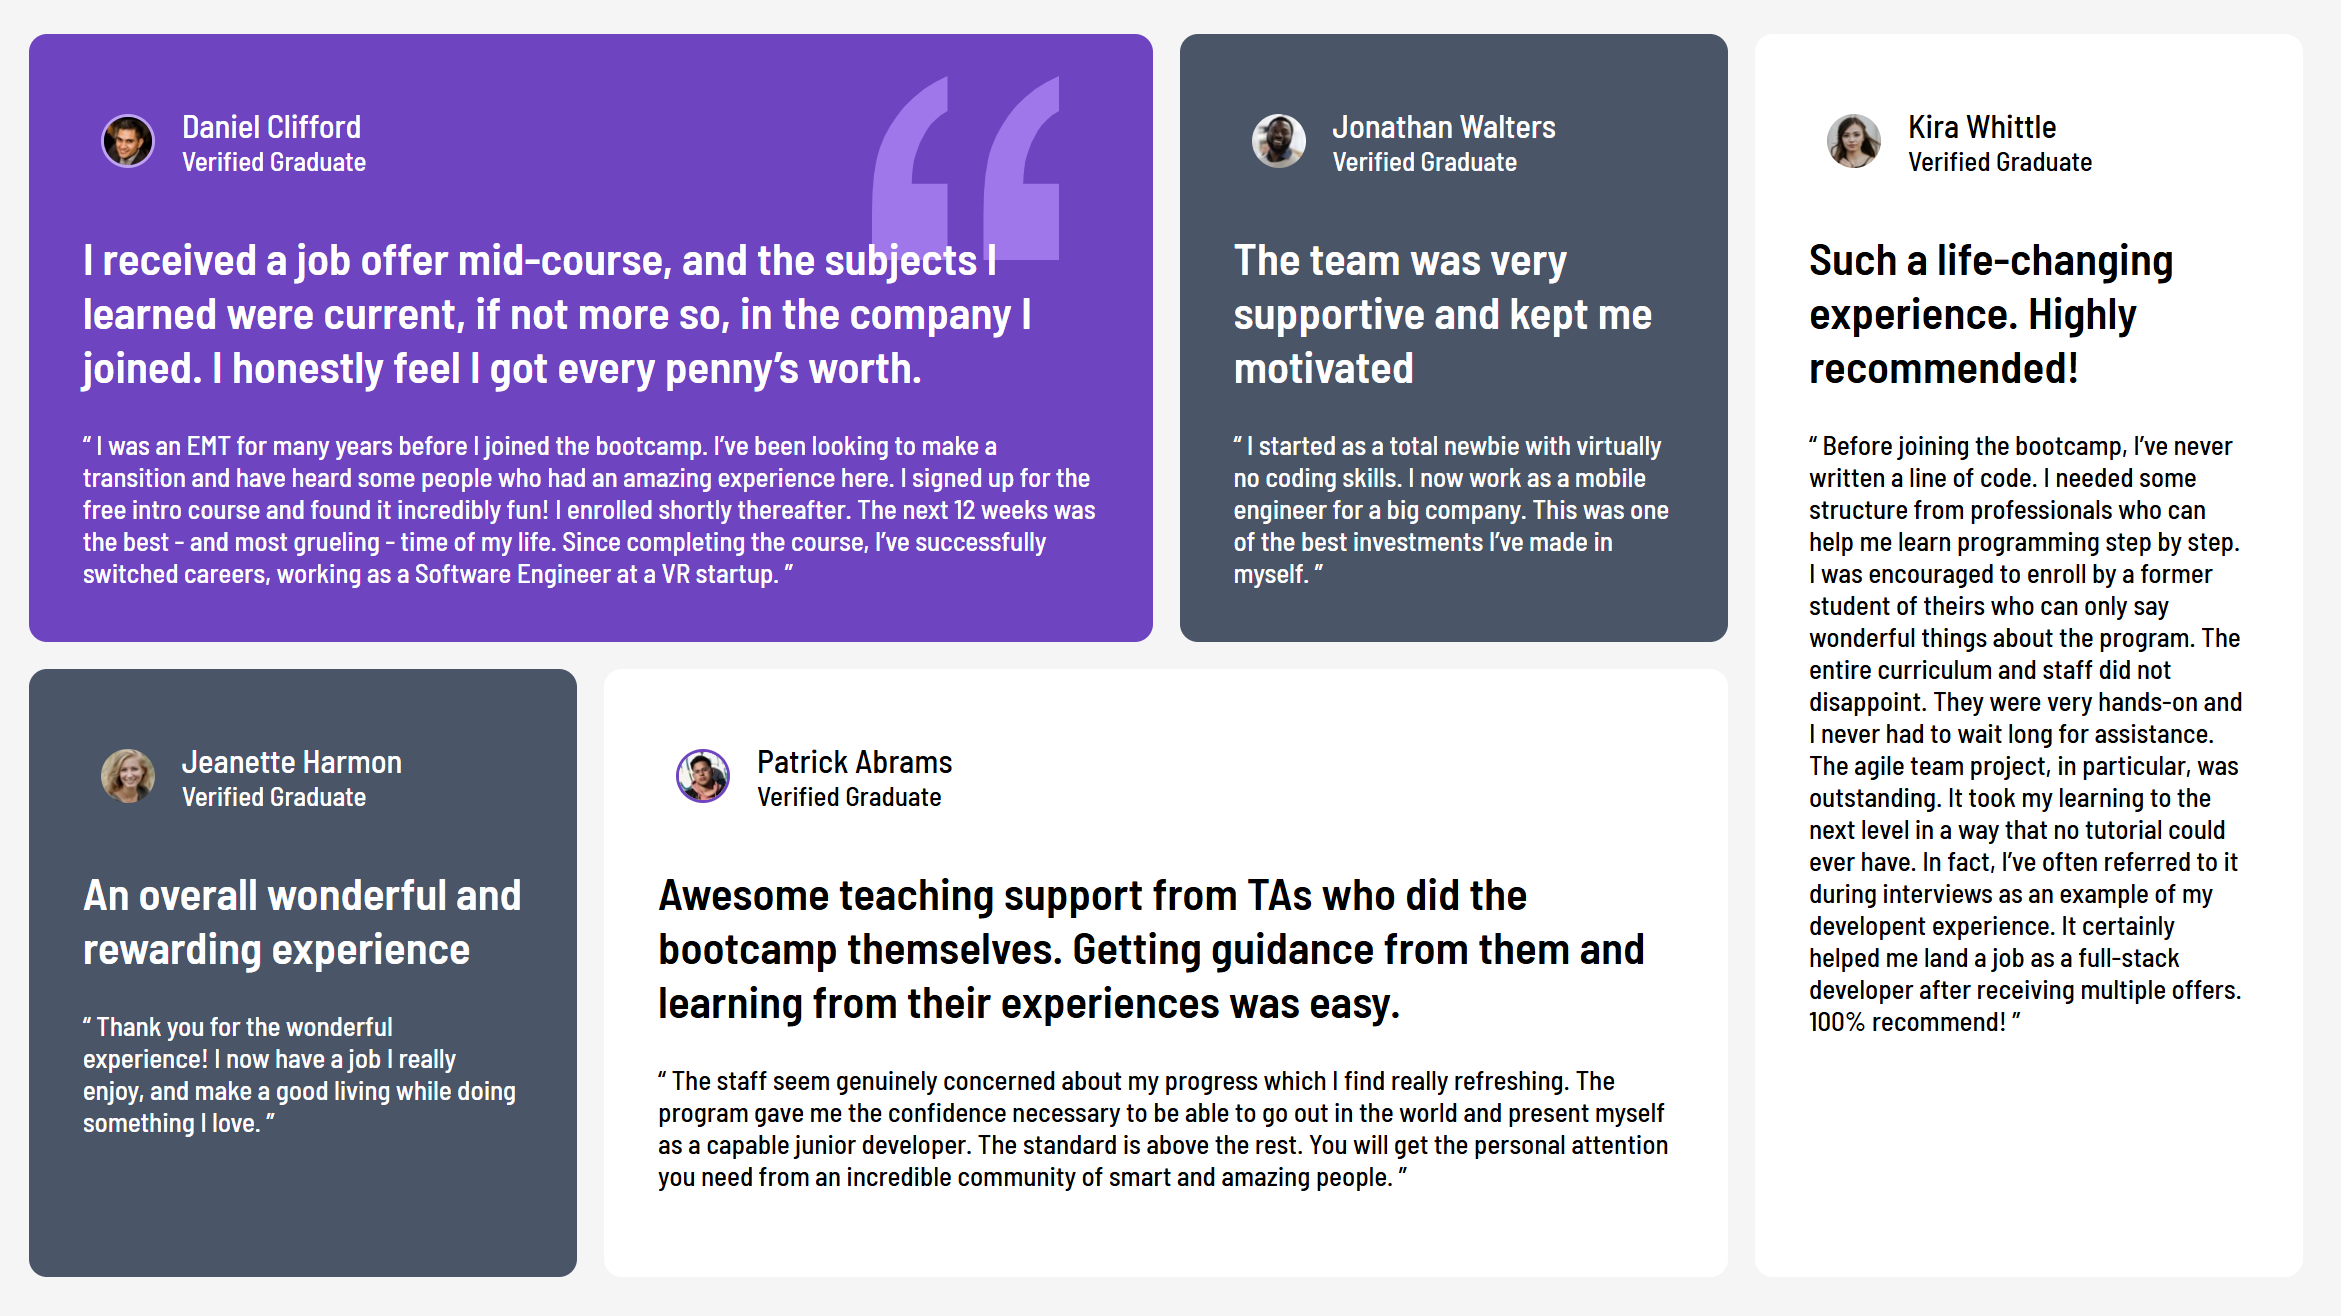
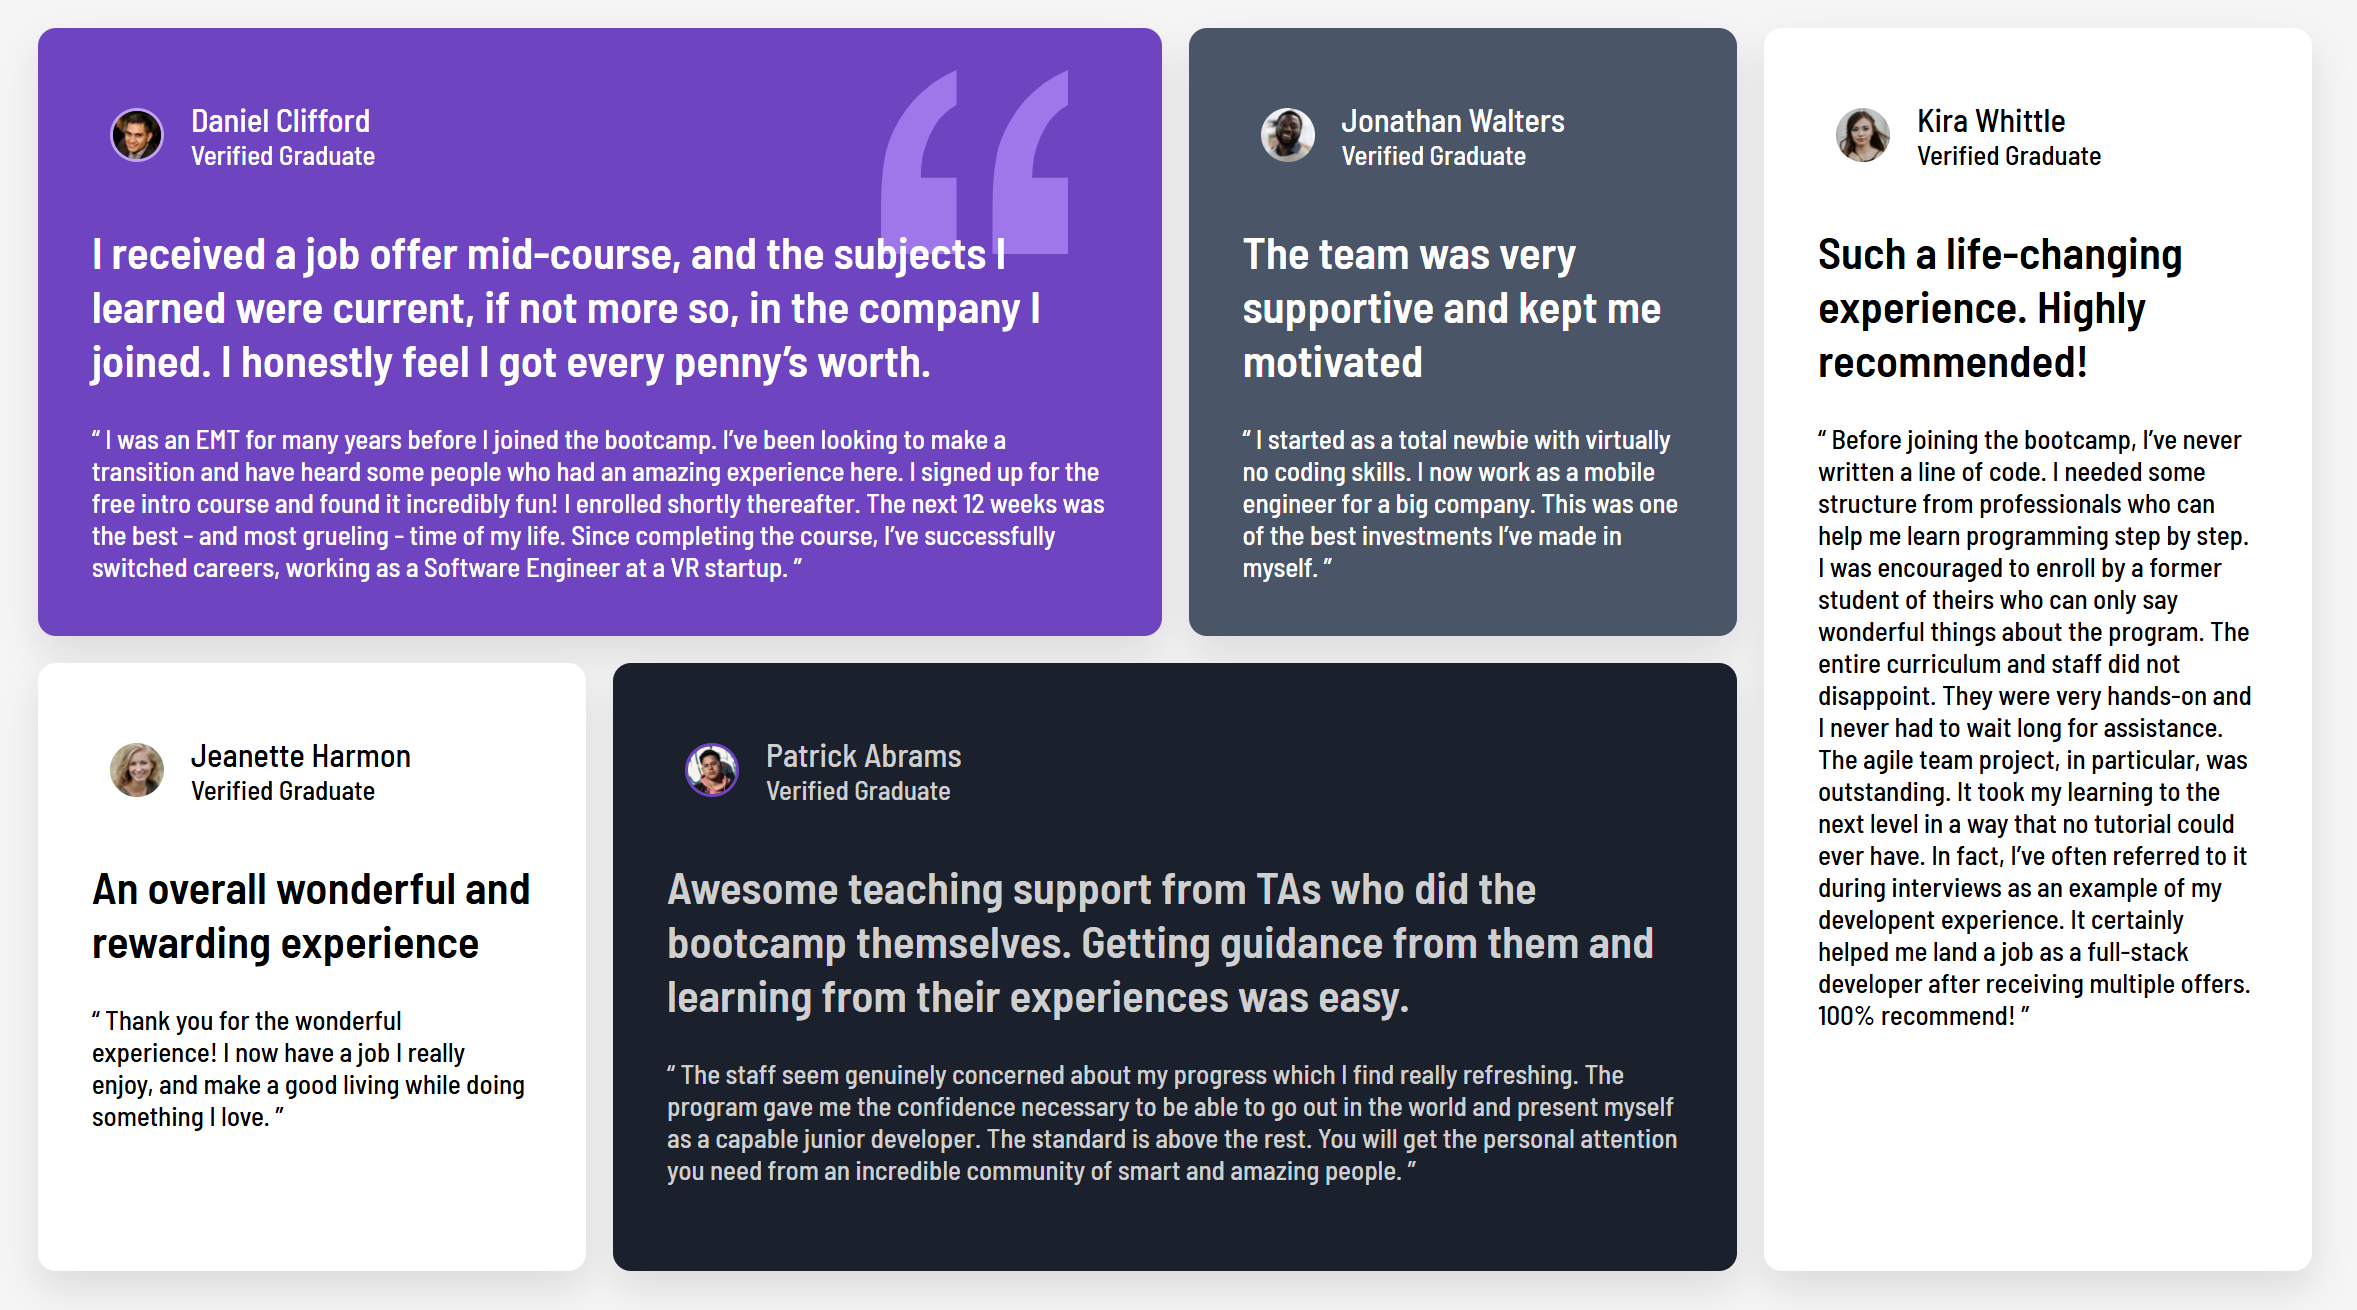
Fixed colours

diff --git a/style.css b/style.css
@@ -47,7 +47,8 @@ body {
     grid-row: span 3 / span 3;
     grid-column-start: 4;
     grid-row-start: 5;
-    background-color: white;
+    background-color: hsl(219, 29%, 14%);
+    color: hsl(0, 0%, 81%);
     border-radius: 10px;
     box-shadow: 0 10px 20px rgba(0, 0, 0, 0.1);
 }
@@ -57,8 +58,8 @@ body {
     grid-row: span 3 / span 3;
     grid-column-start: 2;
     grid-row-start: 5;
-    background-color: hsl(217, 19%, 35%);
-    color: white;
+    background-color: white;
+    color: black;
     border-radius: 10px;
     box-shadow: 0 10px 20px rgba(0, 0, 0, 0.1);
 }
